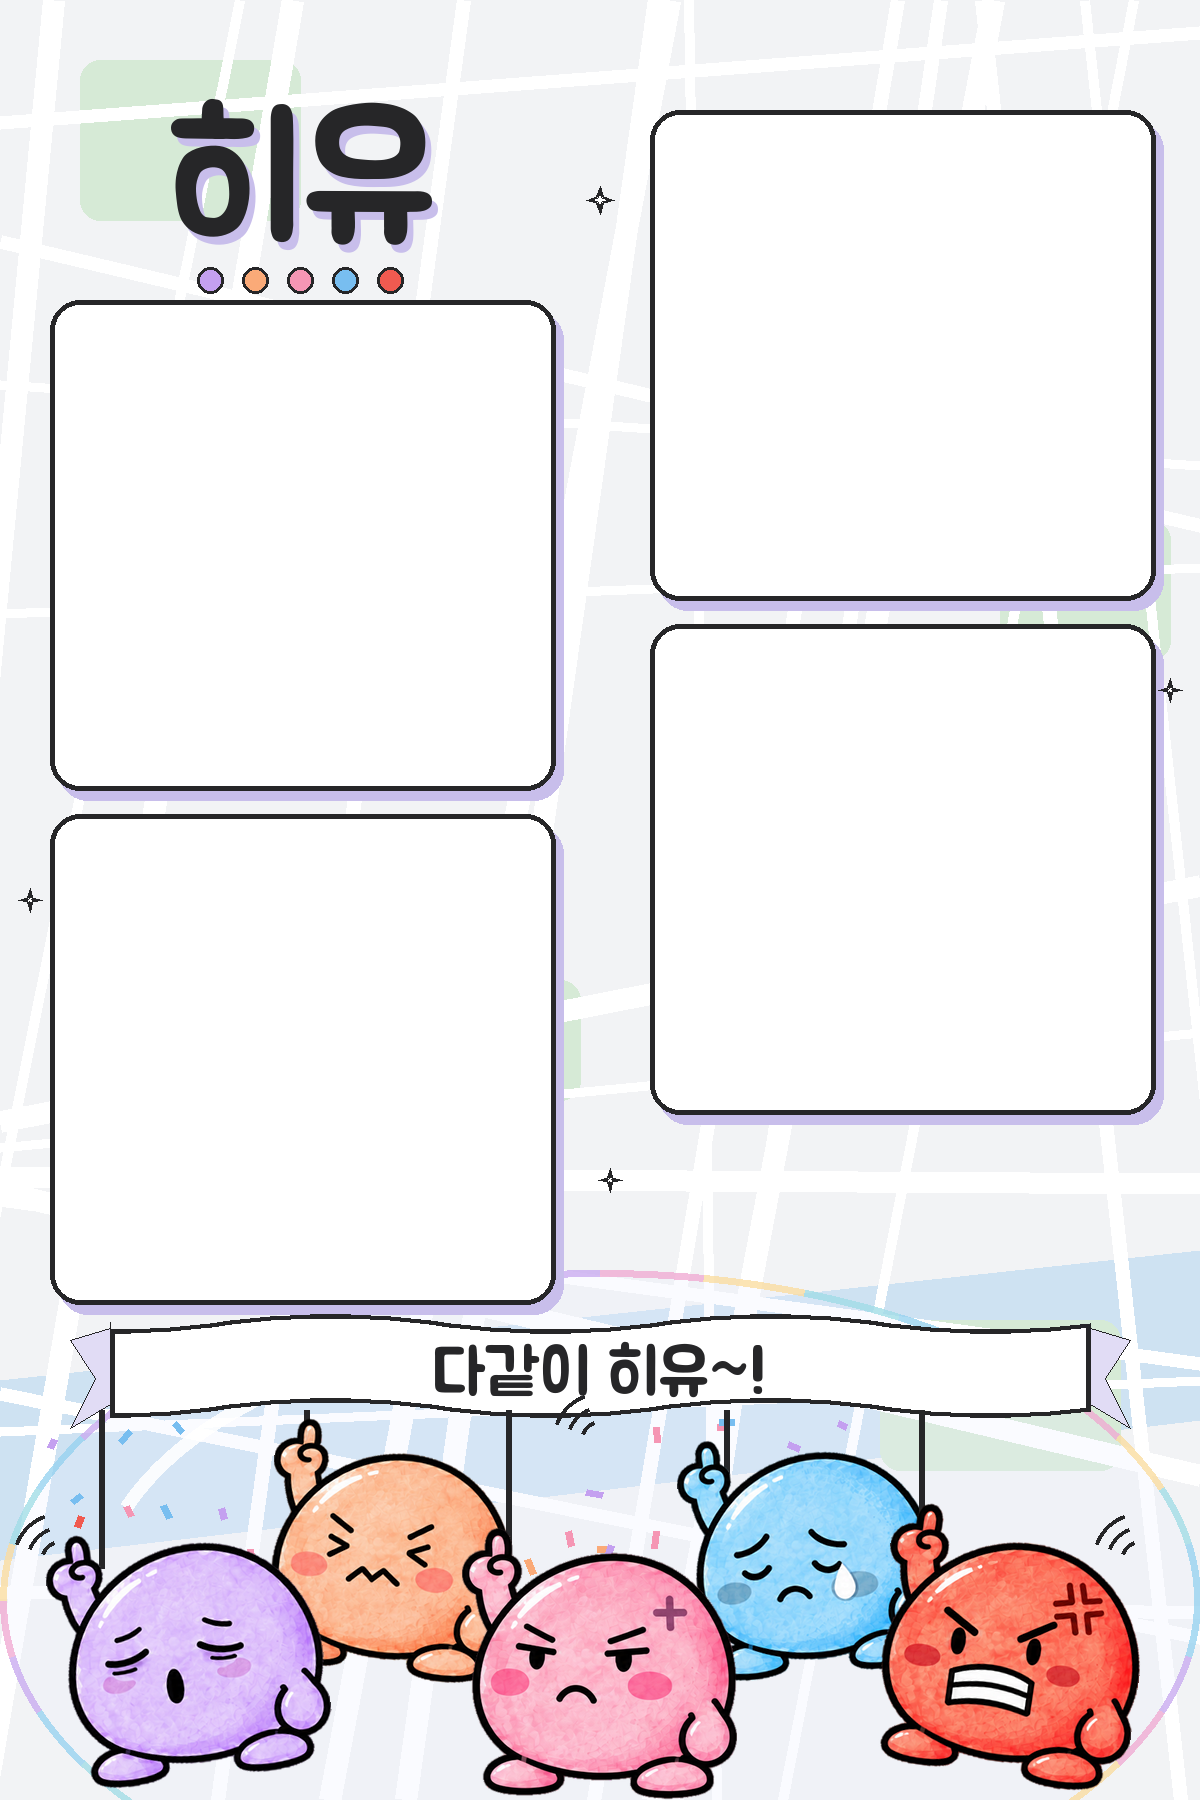
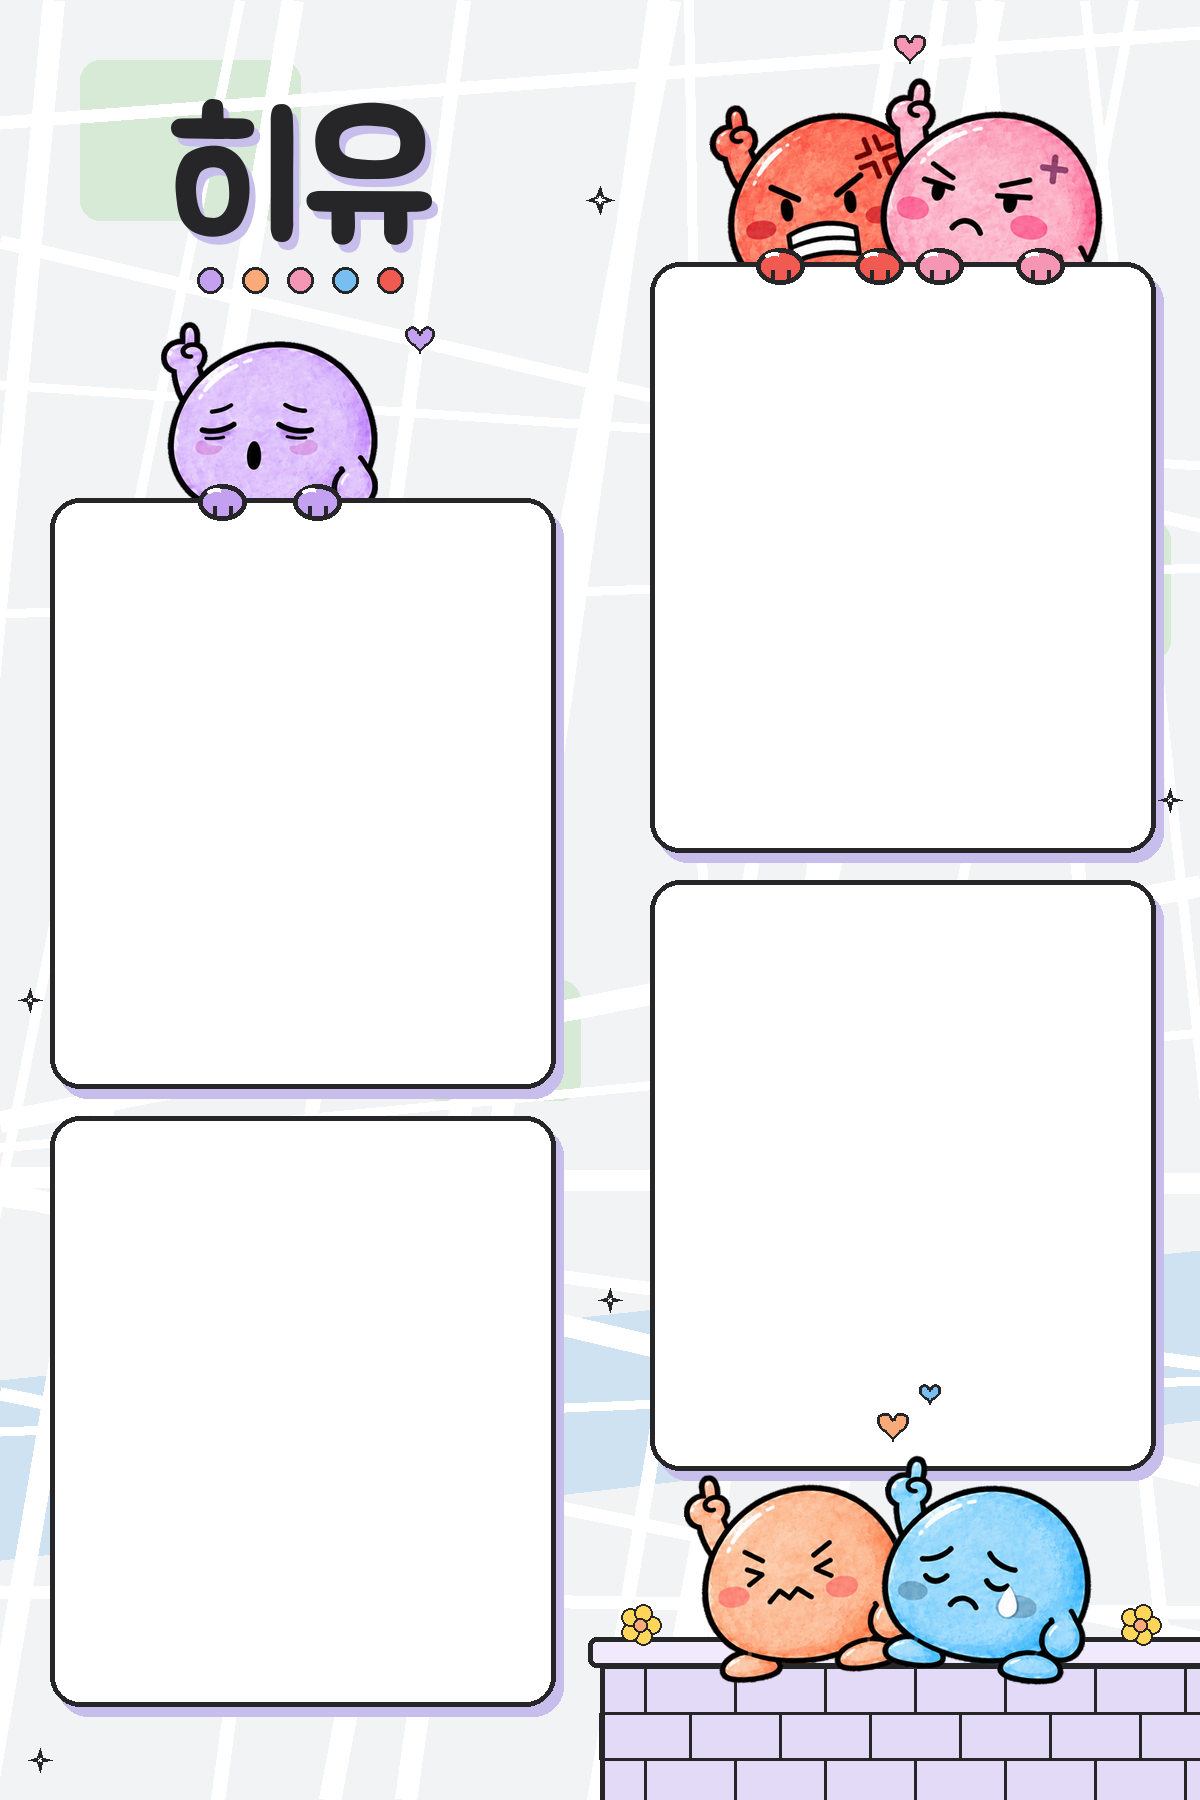
fix: 히유 프레임 이미지 교체 및 사진 칸 좌표 갱신

diff --git a/src/compose.ts b/src/compose.ts
@@ -295,12 +295,12 @@ export const frames: Frame[] = [
     template: hiyuFrame,
     // 다른 프레임보다 칸이 작고 위쪽에 붙어 있어 전용 좌표를 쓴다.
     slots: [
-      { x: 653, y: 113, w: 500, h: 485 },
-      { x: 653, y: 627, w: 500, h: 485 },
-      { x: 53, y: 303, w: 500, h: 485 },
-      { x: 53, y: 817, w: 500, h: 485 },
+      { x: 653, y: 265, w: 500, h: 585 },
+      { x: 653, y: 883, w: 500, h: 585 },
+      { x: 53, y: 501, w: 500, h: 585 },
+      { x: 53, y: 1119, w: 500, h: 585 },
     ],
-    color: "#eceef2",
+    color: "#f2f3f5",
     ink: "#1a1a1a",
   },
   {
